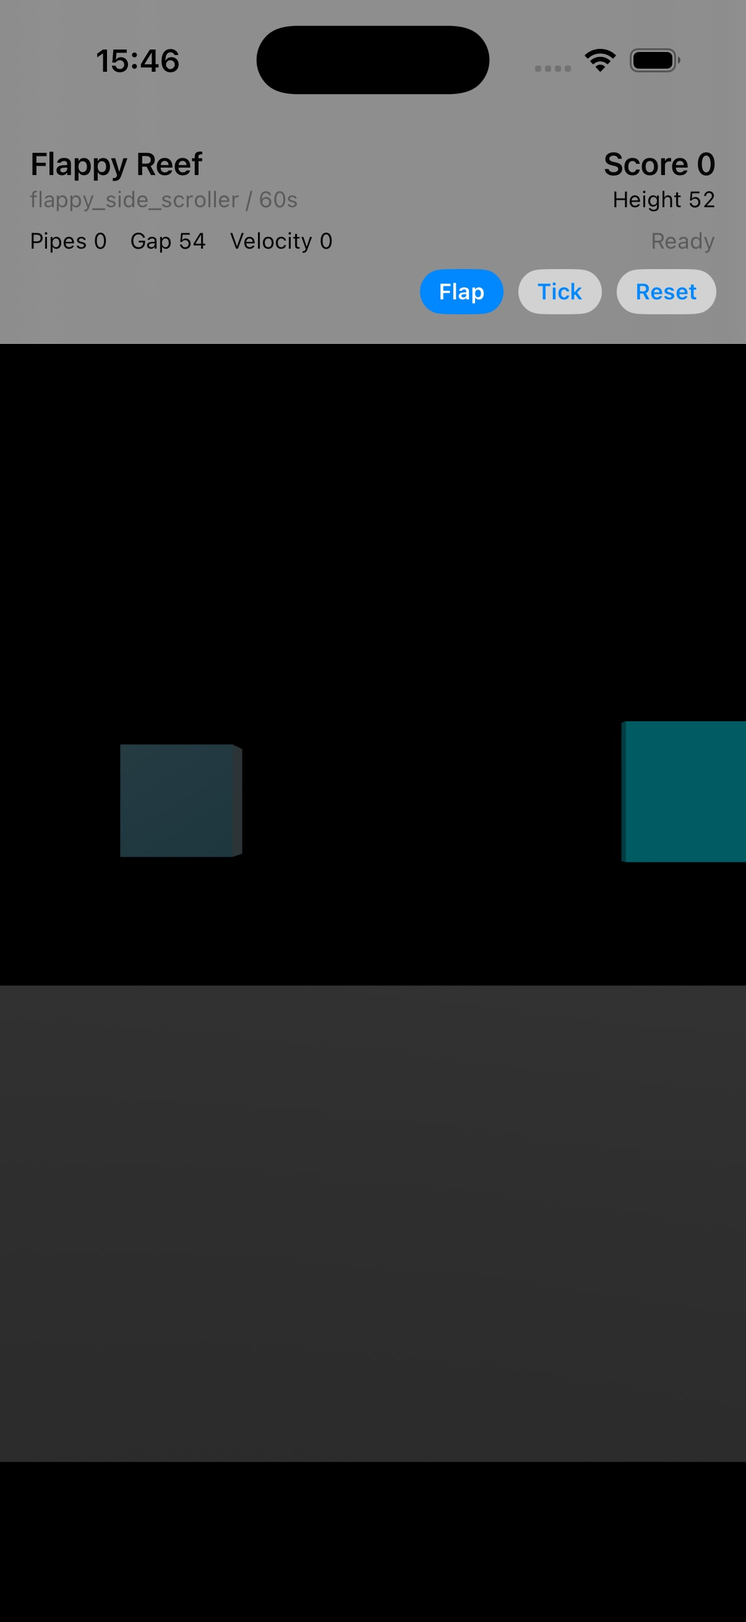
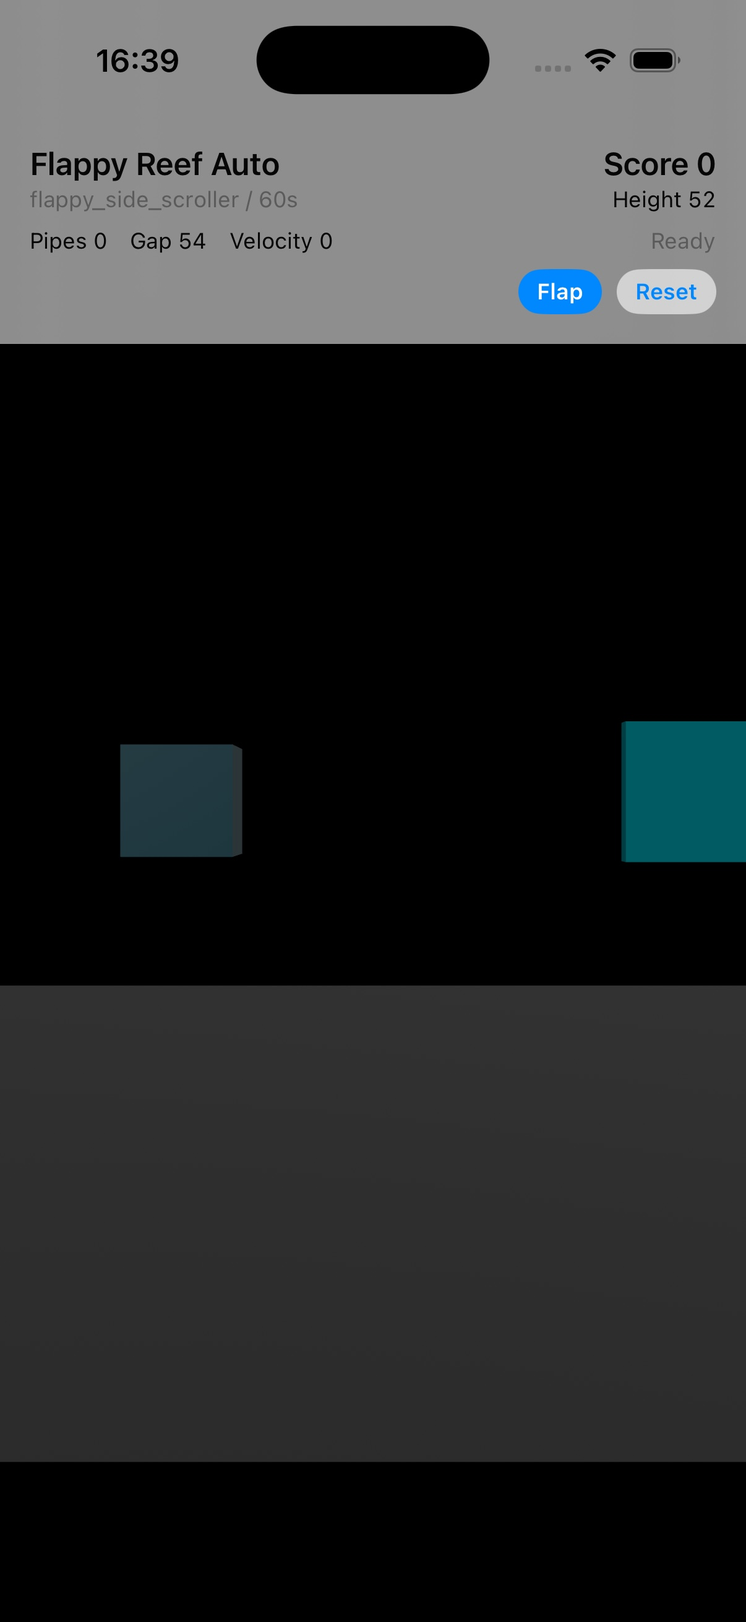
feat: make RKG flappy auto-running

Changed region(s): [[0.5522, 0.1545, 0.8284, 0.2162], [0.2761, 0.0927, 0.3682, 0.1236], [0.1841, 0.0309, 0.2454, 0.0618]]

diff --git a/Tests/test_rkg_init_game.py b/Tests/test_rkg_init_game.py
@@ -1068,14 +1068,18 @@ class RkgInitGameTests(unittest.TestCase):
             state = (source / "GameState.swift").read_text(encoding="utf-8")
             rules = (source / "GameRules.swift").read_text(encoding="utf-8")
             self.assertIn("@State private var state = GameRules.flappyScreenshotSession(", content)
+            self.assertIn("private let frameTimer = Timer.publish(every: GameRules.flappyFrameInterval", content)
+            self.assertIn("private var isAutoLoopActive: Bool", content)
             self.assertIn('Text("Height \\(Int(state.birdY * 100))")', content)
             self.assertIn('Text("Pipes \\(state.pipesPassed)")', content)
             self.assertIn('Text("Gap \\(Int(state.gapY * 100))")', content)
             self.assertIn('Text("Velocity \\(Int(state.birdVelocity * 100))")', content)
-            self.assertIn('Button("Tick")', content)
+            self.assertNotIn('Button("Tick")', content)
+            self.assertIn(".onReceive(frameTimer)", content)
             self.assertIn("state = GameRules.startFlappySession(sessionSeconds: state.sessionSeconds)", content)
             self.assertIn("state = GameRules.flapBird(state)", content)
             self.assertIn("state = GameRules.advanceFlappyFrame(state)", content)
+            self.assertNotIn("tickFlappy()", content)
             self.assertIn("TapGesture().onEnded", content)
             self.assertIn('static let primaryActionTitle = "Flap"', input_intent)
             self.assertIn('case nearGap = "near_gap"', screenshot_state)
@@ -1084,11 +1088,16 @@ class RkgInitGameTests(unittest.TestCase):
             self.assertIn("var obstacleX: Double = GameRules.flappyStartObstacleX", state)
             self.assertIn("var gapY: Double = GameRules.flappyStartGapY", state)
             self.assertIn("var pipesPassed: Int = 0", state)
+            self.assertIn("var flappyFramesElapsed: Int = 0", state)
             self.assertIn("var isCollision: Bool = false", state)
             self.assertIn("static let flappyGravity", rules)
+            self.assertIn("static let flappyFrameInterval = 0.18", rules)
+            self.assertIn("static func flappyObstacleSpeed(for pipesPassed: Int) -> Double", rules)
             self.assertIn("static func startFlappySession(sessionSeconds: Int) -> GameSessionState", rules)
             self.assertIn("static func flapBird(_ state: GameSessionState) -> GameSessionState", rules)
             self.assertIn("static func advanceFlappyFrame(_ state: GameSessionState) -> GameSessionState", rules)
+            self.assertIn("next.flappyFramesElapsed += 1", rules)
+            self.assertIn("next.elapsedSeconds = Int(Double(next.flappyFramesElapsed) * flappyFrameInterval)", rules)
             self.assertIn("static func flappyScreenshotSession(for screenshotState: ScreenshotState?", rules)
             self.assertIn('case "near_gap":', rules)
 

diff --git a/src/rkg/archetype_runtime.py b/src/rkg/archetype_runtime.py
@@ -53,6 +53,7 @@ def archetype_state_fields(archetype_id: str) -> list[str]:
             "var obstacleX: Double = GameRules.flappyStartObstacleX",
             "var gapY: Double = GameRules.flappyStartGapY",
             "var pipesPassed: Int = 0",
+            "var flappyFramesElapsed: Int = 0",
             "var isCollision: Bool = false",
         ]
     if archetype_id == "custom_realitykit":
@@ -389,13 +390,17 @@ def archetype_rule_members(archetype_id: str) -> list[str]:
             "static let flappyStartY = 0.52",
             "static let flappyStartObstacleX = 1.0",
             "static let flappyStartGapY = 0.54",
+            "static let flappyFrameInterval = 0.18",
             "static let flappyGravity = -0.040",
             "static let flappyImpulse = 0.180",
-            "static let flappyObstacleSpeed = 0.150",
+            "static let flappyObstacleBaseSpeed = 0.130",
             "static let flappyGapHalfHeight = 0.180",
             "static let flappyBirdX = 0.25",
             """static func clampedBirdY(_ value: Double) -> Double {
     min(max(value, 0.08), 0.92)
+}""",
+            """static func flappyObstacleSpeed(for pipesPassed: Int) -> Double {
+    min(flappyObstacleBaseSpeed + Double(max(0, pipesPassed)) * 0.012, 0.220)
 }""",
             """static func nextFlappyGap(after pipesPassed: Int) -> Double {
     let gaps = [0.36, 0.58, 0.44, 0.68, 0.50]
@@ -416,6 +421,7 @@ def archetype_rule_members(archetype_id: str) -> list[str]:
     state.obstacleX = flappyStartObstacleX
     state.gapY = flappyStartGapY
     state.pipesPassed = 0
+    state.flappyFramesElapsed = 0
     state.isCollision = false
     state.lastEvent = "ready"
     return state
@@ -434,10 +440,11 @@ def archetype_rule_members(archetype_id: str) -> list[str]:
     if next.phase != .playing {
         return startFlappySession(sessionSeconds: next.sessionSeconds)
     }
-    next.elapsedSeconds += 1
+    next.flappyFramesElapsed += 1
+    next.elapsedSeconds = Int(Double(next.flappyFramesElapsed) * flappyFrameInterval)
     next.birdVelocity += flappyGravity
     next.birdY = clampedBirdY(next.birdY + next.birdVelocity)
-    next.obstacleX -= flappyObstacleSpeed
+    next.obstacleX -= flappyObstacleSpeed(for: next.pipesPassed)
     if next.obstacleX < -0.16 {
         next.pipesPassed += 1
         next.score = next.pipesPassed * hitScore

diff --git a/src/rkg/content_views.py b/src/rkg/content_views.py
@@ -683,16 +683,23 @@ struct ContentView: View {{
 
 
 def _flappy_content_view_swift(title: str, subtitle: str, player_action: str) -> str:
-    return f"""import SwiftUI
+    return f"""import Combine
+import Foundation
+import SwiftUI
 
 struct ContentView: View {{
     @State private var state = GameRules.flappyScreenshotSession(
         for: ScreenshotState.requested,
         fallback: GameSessionState()
     )
+    private let frameTimer = Timer.publish(every: GameRules.flappyFrameInterval, on: .main, in: .common).autoconnect()
 
     private var isPlaying: Bool {{
         SessionControl.isPlaying(state)
+    }}
+
+    private var isAutoLoopActive: Bool {{
+        isPlaying && ScreenshotState.requested == nil
     }}
 
     var body: some View {{
@@ -739,11 +746,6 @@ struct ContentView: View {{
                         }}
                         .buttonStyle(.borderedProminent)
                         .controlSize(.small)
-                        Button("Tick") {{
-                            tickFlappy()
-                        }}
-                        .buttonStyle(.bordered)
-                        .controlSize(.small)
                         Button(InputIntent.resetTitle) {{
                             state = SessionControl.reset()
                         }}
@@ -767,20 +769,23 @@ struct ContentView: View {{
                     flapFlappy()
                 }}
             )
+            .onReceive(frameTimer) {{ _ in
+                advanceFlappyIfNeeded()
+            }}
         }}
     }}
 
     private func flapFlappy() {{
         if !isPlaying {{
             state = GameRules.startFlappySession(sessionSeconds: state.sessionSeconds)
+            state = GameRules.flapBird(state)
             return
         }}
         state = GameRules.flapBird(state)
     }}
 
-    private func tickFlappy() {{
-        if !isPlaying {{
-            state = GameRules.startFlappySession(sessionSeconds: state.sessionSeconds)
+    private func advanceFlappyIfNeeded() {{
+        if !isAutoLoopActive {{
             return
         }}
         state = GameRules.advanceFlappyFrame(state)

diff --git a/Tests/test_rkg_content_views.py b/Tests/test_rkg_content_views.py
@@ -87,17 +87,21 @@ class RkgContentViewTests(unittest.TestCase):
         self.assertIn("for: ScreenshotState.requested", content)
         self.assertIn("fallback: GameSessionState()", content)
         self.assertIn("SessionControl.isPlaying(state)", content)
+        self.assertIn("private let frameTimer = Timer.publish(every: GameRules.flappyFrameInterval", content)
+        self.assertIn("private var isAutoLoopActive: Bool", content)
         self.assertIn("GameView(state: state)", content)
         self.assertIn('Text("Height \\(Int(state.birdY * 100))")', content)
         self.assertIn('Text("Pipes \\(state.pipesPassed)")', content)
         self.assertIn('Text("Gap \\(Int(state.gapY * 100))")', content)
         self.assertIn('Text("Velocity \\(Int(state.birdVelocity * 100))")', content)
         self.assertIn("Button(InputIntent.primaryButtonTitle(isPlaying: isPlaying))", content)
-        self.assertIn('Button("Tick")', content)
+        self.assertNotIn('Button("Tick")', content)
         self.assertNotIn('Text("play the generated loop")', content)
+        self.assertIn(".onReceive(frameTimer)", content)
         self.assertIn("state = GameRules.startFlappySession(sessionSeconds: state.sessionSeconds)", content)
         self.assertIn("state = GameRules.flapBird(state)", content)
         self.assertIn("state = GameRules.advanceFlappyFrame(state)", content)
+        self.assertNotIn("tickFlappy()", content)
         self.assertIn("TapGesture().onEnded", content)
 
     def test_custom_realitykit_content_view_emits_game_shell_instead_of_dev_overlay(self) -> None:

diff --git a/Tests/test_rkg_archetype_runtime.py b/Tests/test_rkg_archetype_runtime.py
@@ -60,11 +60,18 @@ class RkgArchetypeRuntimeTests(unittest.TestCase):
         self.assertIn("var obstacleX: Double = GameRules.flappyStartObstacleX", fields)
         self.assertIn("var gapY: Double = GameRules.flappyStartGapY", fields)
         self.assertIn("var pipesPassed: Int = 0", fields)
+        self.assertIn("var flappyFramesElapsed: Int = 0", fields)
         self.assertIn("var isCollision: Bool = false", fields)
         self.assertIn("static let flappyGravity", rules)
+        self.assertIn("static let flappyFrameInterval = 0.18", rules)
+        self.assertIn("static let flappyObstacleBaseSpeed = 0.130", rules)
+        self.assertIn("static func flappyObstacleSpeed(for pipesPassed: Int) -> Double", rules)
         self.assertIn("static func startFlappySession(sessionSeconds: Int) -> GameSessionState", rules)
         self.assertIn("static func flapBird(_ state: GameSessionState) -> GameSessionState", rules)
         self.assertIn("static func advanceFlappyFrame(_ state: GameSessionState) -> GameSessionState", rules)
+        self.assertIn("next.flappyFramesElapsed += 1", rules)
+        self.assertIn("next.elapsedSeconds = Int(Double(next.flappyFramesElapsed) * flappyFrameInterval)", rules)
+        self.assertIn("next.obstacleX -= flappyObstacleSpeed(for: next.pipesPassed)", rules)
         self.assertIn("static func hasFlappyCollision(birdY: Double, obstacleX: Double, gapY: Double) -> Bool", rules)
         self.assertIn("static func flappyScreenshotSession(for screenshotState: ScreenshotState?", rules)
         self.assertIn('case "near_gap":', rules)

diff --git a/src/rkg/archetypes.py b/src/rkg/archetypes.py
@@ -133,9 +133,9 @@ ARCHETYPES: list[JsonDict] = [
         "screenshot_states": ["gameplay_start", "mid_flight", "near_gap", "collision", "results"],
         "screenshot_proofs": {
             "gameplay_start": "Tap Start; state.phase == .playing; bird, obstacle gate, and arena are visible.",
-            "mid_flight": "Tap Flap, then Tick; state.birdY changes and state.birdVelocity != 0.",
+            "mid_flight": "Tap Flap and let the auto loop advance; state.birdY changes and state.birdVelocity != 0.",
             "near_gap": "Seed or play until obstacle approaches the bird; state.obstacleX is near the player and state.birdY is inside the gap.",
-            "collision": "Tick outside the gap or hit the flight band; state.isCollision == true and result UI is visible.",
+            "collision": "Let the auto loop advance outside the gap or hit the flight band; state.isCollision == true and result UI is visible.",
             "results": "Clear a few gates or collide; state.phase == .result and score/result UI is visible.",
         },
         "scope_risk": "medium",

diff --git a/Tests/test_rkg_archetypes.py b/Tests/test_rkg_archetypes.py
@@ -72,6 +72,8 @@ class RkgArchetypeTests(unittest.TestCase):
             ["gameplay_start", "mid_flight", "near_gap", "collision", "results"],
         )
         self.assertIn("state.birdY", record["screenshot_proofs"]["mid_flight"])
+        self.assertIn("auto loop", record["screenshot_proofs"]["mid_flight"])
+        self.assertNotIn("Tick", record["screenshot_proofs"]["collision"])
         self.assertIn("state.isCollision == true", record["screenshot_proofs"]["collision"])
 
     def test_custom_realitykit_archetype_exposes_composable_surface(self) -> None:

diff --git a/Docs/rkg-architecture.md b/Docs/rkg-architecture.md
@@ -64,7 +64,7 @@ Initial registry ids:
 | `stack_puzzle` | Place pieces. | Spawn piece, stack/collapse rule, height/result score. |
 | `wave_defense_lite` | Survive waves. | Spawn wave, target priority, health/result state. |
 | `fighter_2_5d` | Fixed side-view duel. | Attack, dodge, health, combo, guard cue, knockout/result state. |
-| `flappy_side_scroller` | Fixed side-view flap/gap runner. | Tap flap, gravity, scrolling obstacle gap, collision/result state. |
+| `flappy_side_scroller` | Fixed side-view flap/gap runner. | Tap flap, auto-loop gravity, speed ramp, scrolling obstacle gap, collision/result state. |
 | `custom_realitykit` | Compose from camera, input, and systems. | Generic player/arena roles plus racing, weapon, enemy, cover, pickup, projectile, or obstacle proof roles. |
 
 ## Asset Role Taxonomy
@@ -181,7 +181,7 @@ Responsibilities:
 | `RuntimeSceneSnapshot.swift` | Writes runtime scene-role metadata during screenshot-state launches. |
 | `ResultView.swift` | Result summary UI with reset action. |
 
-Current `init-game` writes this module layout. The first implementation keeps gameplay simple, but the ownership boundaries are in place: `GameView` no longer loads assets directly, `GameSceneController` wires all declared asset roles into the scene, `SessionControl` owns shared playing/reset/result primitives plus generated result visibility, and generated result/fail transitions route through `markResult`. `FeedbackState` owns generated last-event display text, `InputIntent` owns generated primary/reset button labels, `ScreenshotState` owns the typed release screenshot state ids, launch argument/env parsing, and evidence paths, `RuntimeSceneSnapshot` owns runtime scene-role evidence export during screenshot launches, `CameraRig` owns the selected camera id plus a compile-safe transform contract, `InputController` owns selected input capabilities, `SystemFlags` owns selected gameplay-system booleans, `WorldRig` owns generated custom scene dressing and idle motion, `ResultView` owns the generated result summary/reset overlay, `AssetLoader` owns USDZ loading, and `FallbackFactory` owns role- and fallback-id-based procedural primitives. `target_shooter` has a playable SwiftUI overlay loop and RealityKit state binding for start, hit scoring, perfect-hit feedback, finish/result, reset, target movement, result overlay, and scoring. `stack_puzzle` has a playable SwiftUI overlay loop and RealityKit state binding for start, stable/unstable placement, collapse/result, reset, piece count, stable count, piece height/offset feedback, obstacle collapse feedback, result overlay, and scoring. `lane_dodger` has a minimal playable generated loop in SwiftUI and RealityKit state binding: start, drag lane change, dodge frame advance, player/obstacle lane movement, collision/result, reset, score, result overlay, and near-miss state. `wave_defense_lite` has a playable SwiftUI overlay loop and RealityKit state binding for start, fire, damage, wave progression, health/result, threat movement, low-health defender feedback, reset, result overlay, and scoring. `toss_physics` has a playable SwiftUI overlay loop and RealityKit state binding for start, power selection, throw resolution, projectile position, landing/result feedback, attempts, reset, result overlay, and scoring. `fighter_2_5d` has a playable generated side-view duel loop with attack, swipe/tap dodge, damage test input, health, combo, guard meter, knockout/result state, hit VFX role binding, guard cue role binding, compact mobile HUD controls, and launch-state screenshot seeding for `round_start`, `mid_combo`, `perfect_dodge`, and `knockout`. `flappy_side_scroller` has a playable generated side-view loop with tap-to-flap gravity, bird velocity/height state, scrolling obstacle X, deterministic gap Y, pass scoring, collision/result state, compact Flap/Tick/Reset controls, bird/obstacle/arena RealityKit binding, and launch-state screenshot seeding for `gameplay_start`, `mid_flight`, `near_gap`, `collision`, and `results`. `custom_realitykit` currently generates a composable skeleton with camera/input/system runtime core, fallback-id-driven placeholder meshes, full-screen game shell, `WorldRig` lighting/backdrop/arena/projectile feedback only when the projectile adapter needs it, `SceneEvents.Update` idle motion, asset briefs, store/QA docs, screenshot-state seeding, runtime scene-role snapshots, semantic screenshot contracts, and screenshot gates; its system adapters cover racing lane steering, lap/checkpoint state, collision/result proof, vehicle/track/obstacle/checkpoint scene binding, projectile charge/launch/travel/impact proof, FPS/shooter aim/fire/health/cover/enemy proof, collector pickup/timer/combo proof, and camera rig entity binding. Custom adapter state/rules/UI/scene strings live behind `CustomRealityKitRuntimeAdapter` registry entries in `src/rkg/custom_realitykit_runtime.py`, and `rkg list-adapters --json` exposes that registry as a machine-readable capability matrix so docs/tools do not need to infer support from prose.
+Current `init-game` writes this module layout. The first implementation keeps gameplay simple, but the ownership boundaries are in place: `GameView` no longer loads assets directly, `GameSceneController` wires all declared asset roles into the scene, `SessionControl` owns shared playing/reset/result primitives plus generated result visibility, and generated result/fail transitions route through `markResult`. `FeedbackState` owns generated last-event display text, `InputIntent` owns generated primary/reset button labels, `ScreenshotState` owns the typed release screenshot state ids, launch argument/env parsing, and evidence paths, `RuntimeSceneSnapshot` owns runtime scene-role evidence export during screenshot launches, `CameraRig` owns the selected camera id plus a compile-safe transform contract, `InputController` owns selected input capabilities, `SystemFlags` owns selected gameplay-system booleans, `WorldRig` owns generated custom scene dressing and idle motion, `ResultView` owns the generated result summary/reset overlay, `AssetLoader` owns USDZ loading, and `FallbackFactory` owns role- and fallback-id-based procedural primitives. `target_shooter` has a playable SwiftUI overlay loop and RealityKit state binding for start, hit scoring, perfect-hit feedback, finish/result, reset, target movement, result overlay, and scoring. `stack_puzzle` has a playable SwiftUI overlay loop and RealityKit state binding for start, stable/unstable placement, collapse/result, reset, piece count, stable count, piece height/offset feedback, obstacle collapse feedback, result overlay, and scoring. `lane_dodger` has a minimal playable generated loop in SwiftUI and RealityKit state binding: start, drag lane change, dodge frame advance, player/obstacle lane movement, collision/result, reset, score, result overlay, and near-miss state. `wave_defense_lite` has a playable SwiftUI overlay loop and RealityKit state binding for start, fire, damage, wave progression, health/result, threat movement, low-health defender feedback, reset, result overlay, and scoring. `toss_physics` has a playable SwiftUI overlay loop and RealityKit state binding for start, power selection, throw resolution, projectile position, landing/result feedback, attempts, reset, result overlay, and scoring. `fighter_2_5d` has a playable generated side-view duel loop with attack, swipe/tap dodge, damage test input, health, combo, guard meter, knockout/result state, hit VFX role binding, guard cue role binding, compact mobile HUD controls, and launch-state screenshot seeding for `round_start`, `mid_combo`, `perfect_dodge`, and `knockout`. `flappy_side_scroller` has a playable generated side-view loop with tap-to-flap gravity, SwiftUI timer auto-loop, frame-interval session timing, speed ramp, screenshot-mode freeze, bird velocity/height state, scrolling obstacle X, deterministic gap Y, pass scoring, collision/result state, compact Flap/Reset controls, bird/obstacle/arena RealityKit binding, and launch-state screenshot seeding for `gameplay_start`, `mid_flight`, `near_gap`, `collision`, and `results`. `custom_realitykit` currently generates a composable skeleton with camera/input/system runtime core, fallback-id-driven placeholder meshes, full-screen game shell, `WorldRig` lighting/backdrop/arena/projectile feedback only when the projectile adapter needs it, `SceneEvents.Update` idle motion, asset briefs, store/QA docs, screenshot-state seeding, runtime scene-role snapshots, semantic screenshot contracts, and screenshot gates; its system adapters cover racing lane steering, lap/checkpoint state, collision/result proof, vehicle/track/obstacle/checkpoint scene binding, projectile charge/launch/travel/impact proof, FPS/shooter aim/fire/health/cover/enemy proof, collector pickup/timer/combo proof, and camera rig entity binding. Custom adapter state/rules/UI/scene strings live behind `CustomRealityKitRuntimeAdapter` registry entries in `src/rkg/custom_realitykit_runtime.py`, and `rkg list-adapters --json` exposes that registry as a machine-readable capability matrix so docs/tools do not need to infer support from prose.
 
 Generated projects also write `Docs/assets/<asset_id>.md` for every declared role. These are not acceptance records; they are RKP handoff briefs for the later asset import loop.
 

diff --git a/Docs/ai-handoff.md b/Docs/ai-handoff.md
@@ -68,7 +68,7 @@ Do not expand RKG while doing product-focus cleanup unless a test or doc boundar
 | Roughness readability polish | Complete | Neutral curved witness patch, stronger roughness values, grazing comparison lights |
 | Metallic value comparison | Complete | Fourth `material_response_targets` panel; metallic remains a material value, not a texture map |
 
-RKG latest note: `rkg start-game` now scores an idea, chooses native fighter/flappy or custom RealityKit camera/input/systems from idea keywords, scaffolds the project, and returns the QA plan plus `asset_pipeline.tasks` in one command. Each asset pipeline task maps a generated asset brief to ordered RKP command arrays for `make-asset`, `build-asset`, `inspect-usdz --json`, and screenshot-gated `accept-asset`. `flappy_side_scroller` is now the native Flappy-like proof: `Build/rkg-flappy/FlappyReef` passes `verify-game`, `capture-screenshots`, and `verify-screenshots --json` for `gameplay_start`, `mid_flight`, `near_gap`, `collision`, and `results`; public evidence is `Docs/screenshots/rkg_flappy_*.jpg`. `rkg accept-first-asset` wraps the first gameplay-relevant task into one workflow: make/build/inspect, capture and verify screenshots, copy the selected state screenshot to `<asset_id>_imported.jpg`, accept, and run `release-check --assets`. It skips the make step when `Tools/blender/create_<asset_id>.py` already exists, so it can resume. The acceptance executor keeps plan output readable as `rkp`/`rkg` commands, but dispatches those entrypoints through workspace modules so local dogfood cannot accidentally use an older installed binary. The dogfood proof is `Build/rkg-start-game-dogfood/ShardVolleyStart`: generated build/capture/sidecars/scene snapshots pass, and one emitted task (`target_proxy`) has been built, inspected, accepted with `Docs/screenshots/target_proxy_imported.jpg`, and verified by `rkp release-check --assets`. The current custom game-skeleton proof is `Build/rkg-proper-skeleton-v7/ShardVolleyStart`: generated `custom_realitykit` apps include a full-screen game shell, start overlay, compact HUD, icon controls, `WorldRig.swift` with lighting/backdrop/arena lanes/projectile feedback only when the projectile adapter needs it, `SceneEvents.Update` idle motion, neutral fallback player proxy, result-only panel, and semantic visual screenshot contracts; `verify-game`, `capture-screenshots`, and `verify-screenshots --json` all pass for four screenshot states.
+RKG latest note: `rkg start-game` now scores an idea, chooses native fighter/flappy or custom RealityKit camera/input/systems from idea keywords, scaffolds the project, and returns the QA plan plus `asset_pipeline.tasks` in one command. Each asset pipeline task maps a generated asset brief to ordered RKP command arrays for `make-asset`, `build-asset`, `inspect-usdz --json`, and screenshot-gated `accept-asset`. `flappy_side_scroller` is now the native Flappy-like proof: `Build/rkg-flappy-auto/FlappyReefAuto` passes `verify-game`, `capture-screenshots`, and `verify-screenshots --json` for `gameplay_start`, `mid_flight`, `near_gap`, `collision`, and `results`; public evidence is `Docs/screenshots/rkg_flappy_*.jpg`. It has SwiftUI timer auto-loop, frame-interval session timing, screenshot-mode freeze, speed ramp, Flap/Reset controls, and deterministic screenshot-state seeds. `rkg accept-first-asset` wraps the first gameplay-relevant task into one workflow: make/build/inspect, capture and verify screenshots, copy the selected state screenshot to `<asset_id>_imported.jpg`, accept, and run `release-check --assets`. It skips the make step when `Tools/blender/create_<asset_id>.py` already exists, so it can resume. The acceptance executor keeps plan output readable as `rkp`/`rkg` commands, but dispatches those entrypoints through workspace modules so local dogfood cannot accidentally use an older installed binary. The dogfood proof is `Build/rkg-start-game-dogfood/ShardVolleyStart`: generated build/capture/sidecars/scene snapshots pass, and one emitted task (`target_proxy`) has been built, inspected, accepted with `Docs/screenshots/target_proxy_imported.jpg`, and verified by `rkp release-check --assets`. The current custom game-skeleton proof is `Build/rkg-proper-skeleton-v7/ShardVolleyStart`: generated `custom_realitykit` apps include a full-screen game shell, start overlay, compact HUD, icon controls, `WorldRig.swift` with lighting/backdrop/arena lanes/projectile feedback only when the projectile adapter needs it, `SceneEvents.Update` idle motion, neutral fallback player proxy, result-only panel, and semantic visual screenshot contracts; `verify-game`, `capture-screenshots`, and `verify-screenshots --json` all pass for four screenshot states.
 
 ## Planned Learning Modules
 
@@ -93,7 +93,7 @@ Recommended next path:
 
 1. Default back to the RKP product path and continue Module 4: Texture Maps and Material Response.
 2. Pick exactly one next material slice: metallic map need assessment or normal-map export behavior.
-3. If deliberately continuing RKG, use `Docs/rkg-shard-volley-dogfood.md` plus the Flappy evidence from Sprint 136 as the current gap list. Adapter-specific `qa-plan` proof text, blank/solid PNG/JPEG guardrails, malformed JPEG rejection, duplicate visual evidence detection, capture-contract sidecars, runtime scene-role snapshots, idea-to-project orchestration, generated asset-brief to RKP command planning, one emitted asset task dogfood, `accept-first-asset`, `accept-assets`, fresh capture XcodeGen generation, local CLI subprocess module dispatch, the readable `target_proxy` bullseye asset, full five-asset Shard Volley demo acceptance, first game-shell/world-rig presentation parity, first semantic visual QA, SceneEvents-based idle motion, and native Flappy-like scaffold proof are done. The next useful slice is text-overlap/mesh-visibility QA or richer Flappy/charge/launch VFX, sound, haptics, and level variety hooks.
+3. If deliberately continuing RKG, use `Docs/rkg-shard-volley-dogfood.md` plus the Flappy evidence from Sprint 137 as the current gap list. Adapter-specific `qa-plan` proof text, blank/solid PNG/JPEG guardrails, malformed JPEG rejection, duplicate visual evidence detection, capture-contract sidecars, runtime scene-role snapshots, idea-to-project orchestration, generated asset-brief to RKP command planning, one emitted asset task dogfood, `accept-first-asset`, `accept-assets`, fresh capture XcodeGen generation, local CLI subprocess module dispatch, the readable `target_proxy` bullseye asset, full five-asset Shard Volley demo acceptance, first game-shell/world-rig presentation parity, first semantic visual QA, SceneEvents-based idle motion, native Flappy-like scaffold proof, and Flappy auto-loop/speed-ramp proof are done. The next useful slice is text-overlap/mesh-visibility QA or richer Flappy/charge/launch VFX, sound, haptics, and level variety hooks.
 4. Keep screenshot evidence required before marking any visual asset imported.
 5. Use `Docs/blender-support.md` when answering Blender/fallback setup questions.
 6. Use `Docs/first-good-issues.md` when creating learner-friendly issue candidates.

diff --git a/Docs/game-factory.md b/Docs/game-factory.md
@@ -161,7 +161,7 @@ python3 Tools/rkg.py plan-game GameSpec.json
 python3 Tools/rkg.py qa-plan GameSpec.json
 ```
 
-`plan-game` is a dry run. It lists generated files, asset roles, and screenshot states without creating the output directory. Generated projects include `SessionControl.swift` for shared playing/reset/result primitives, `FeedbackState.swift` for last-event display text, `InputIntent.swift` for primary/reset button labels, `ScreenshotState.swift`, which turns `release.screenshots` into typed Swift cases and evidence paths for future capture automation, and `RuntimeSceneSnapshot.swift`, which writes runtime scene-role evidence during screenshot-state launches. The seed archetypes, including `target_shooter`, use the same shared state/result surface before adding deeper mechanics. Native `flappy_side_scroller` adds gravity/flap state, scrolling obstacle-gap state, collision/result proof, score, Flap/Tick controls, screenshot-state seeding, and RealityKit bird/obstacle/arena binding. `custom_realitykit` also emits `CameraRig.swift`, `InputController.swift`, `SystemFlags.swift`, and `WorldRig.swift`; the world rig owns lighting, backdrop, arena lanes, adapter-specific projectile feedback props, and a small `SceneEvents.Update` idle-motion hook. When `racing,lap_timer,collision` is selected it adds lane steering, lap/checkpoint state, collision/result proof, and RealityKit vehicle/track/obstacle/checkpoint binding. When `projectile,shooting,score` is selected it adds projectile charge/launch/hit state, target lane proof, controls, screenshot proof, and RealityKit player/weapon/projectile/target binding. When `weapon,hitscan,enemies,health,cover` is selected it adds aim/fire/health/cover/enemy state, controls, screenshot proof, and RealityKit player/weapon/enemy/cover binding. When `collect,score,timer` is selected it adds pickup/timer/combo state, lane controls, screenshot proof, and RealityKit player/pickup/timer binding. Those custom adapter generator strings are owned by `src/rkg/custom_realitykit_runtime.py`, not by the native archetype runtime/content/scaffold files; `rkg list-adapters --json` exposes the same registry as a capability matrix. Archetype rules should use `SessionControl.markResult` for result/fail transitions after setting their own gameplay-specific flags.
+`plan-game` is a dry run. It lists generated files, asset roles, and screenshot states without creating the output directory. Generated projects include `SessionControl.swift` for shared playing/reset/result primitives, `FeedbackState.swift` for last-event display text, `InputIntent.swift` for primary/reset button labels, `ScreenshotState.swift`, which turns `release.screenshots` into typed Swift cases and evidence paths for future capture automation, and `RuntimeSceneSnapshot.swift`, which writes runtime scene-role evidence during screenshot-state launches. The seed archetypes, including `target_shooter`, use the same shared state/result surface before adding deeper mechanics. Native `flappy_side_scroller` adds gravity/flap state, auto-loop frame advance, frame-interval session timing, speed ramp, scrolling obstacle-gap state, collision/result proof, score, Flap/Reset controls, screenshot-state seeding, and RealityKit bird/obstacle/arena binding. `custom_realitykit` also emits `CameraRig.swift`, `InputController.swift`, `SystemFlags.swift`, and `WorldRig.swift`; the world rig owns lighting, backdrop, arena lanes, adapter-specific projectile feedback props, and a small `SceneEvents.Update` idle-motion hook. When `racing,lap_timer,collision` is selected it adds lane steering, lap/checkpoint state, collision/result proof, and RealityKit vehicle/track/obstacle/checkpoint binding. When `projectile,shooting,score` is selected it adds projectile charge/launch/hit state, target lane proof, controls, screenshot proof, and RealityKit player/weapon/projectile/target binding. When `weapon,hitscan,enemies,health,cover` is selected it adds aim/fire/health/cover/enemy state, controls, screenshot proof, and RealityKit player/weapon/enemy/cover binding. When `collect,score,timer` is selected it adds pickup/timer/combo state, lane controls, screenshot proof, and RealityKit player/pickup/timer binding. Those custom adapter generator strings are owned by `src/rkg/custom_realitykit_runtime.py`, not by the native archetype runtime/content/scaffold files; `rkg list-adapters --json` exposes the same registry as a capability matrix. Archetype rules should use `SessionControl.markResult` for result/fail transitions after setting their own gameplay-specific flags.
 
 `qa-plan` is the dry-run screenshot capture plan. It sequences `release.screenshots` with the generated proof cue, visible roles, Swift screenshot state case, target evidence path, capture automation hint, and `semantic_visual_contract` thresholds. Use `--json` when another tool or future simulator automation needs to consume the plan. `fighter_2_5d`, `flappy_side_scroller`, and `custom_realitykit` generated apps can be launched directly into a screenshot state with `--rkg-screenshot-state <state>`. For `custom_realitykit`, the proof cue is selected from the active system adapter, so projectile, racing, shooter, and collector skeletons describe their own state values instead of generic archetype prose.
 

diff --git a/Docs/WORKLOG.md b/Docs/WORKLOG.md
@@ -12,6 +12,43 @@ Bu dosya projenin ortak çalışma defteri. Her yeni işe başlamadan önce bura
 
 ## Current Sprint
 
+### Sprint 137: RKG Flappy Auto Loop Polish
+
+**Durum:** Tamamlandı
+**Tarih:** 2026-05-13
+**Amaç:** Native Flappy archetype'ını manual `Tick` prototipinden gerçek zamanlı oynanabilir generated loop'a yaklaştırmak.
+
+**Yapılanlar:**
+
+- Generated Flappy `ContentView` artık `Timer.publish(every: GameRules.flappyFrameInterval...)` ile otomatik frame advance ediyor.
+- Screenshot-state launch sırasında auto-loop bilerek donuyor; capture kanıtları deterministik kalıyor.
+- Manual `Tick` butonu ve `tickFlappy()` helper'ı kaldırıldı; normal kontrol yüzeyi Flap/Reset olarak kaldı.
+- İlk Flap aksiyonu idle state'ten session başlatıp bird'e impulse veriyor.
+- Runtime'a `flappyFrameInterval`, `flappyObstacleBaseSpeed` ve `flappyObstacleSpeed(for:)` eklendi; obstacle hızı geçilen pipe sayısına göre kontrollü artıyor.
+- `flappyFramesElapsed` state alanı eklendi; session süresi auto-loop frame interval'ine göre hesaplanıyor.
+- Flappy proof metinleri `Tick` yerine auto-loop davranışını anlatacak şekilde güncellendi.
+- `Docs/screenshots/rkg_flappy_*.jpg` kanıtları auto-loop generated app'ten tekrar alındı.
+
+**Verification:**
+
+```text
+rtk ./.venv/bin/python -m unittest Tests.test_rkg_archetypes.RkgArchetypeTests.test_flappy_side_scroller_exposes_flight_roles_input_and_screenshot_proofs Tests.test_rkg_archetype_runtime.RkgArchetypeRuntimeTests.test_flappy_runtime_contract_is_exposed_outside_scaffold Tests.test_rkg_content_views.RkgContentViewTests.test_flappy_content_view_contract_is_outside_scaffold Tests.test_rkg_init_game.RkgInitGameTests.test_init_game_generates_flappy_state_rules_and_play_loop: first run failed as expected on missing auto-loop contract; then ok
+rtk ./.venv/bin/python -m unittest Tests.test_rkg_archetypes Tests.test_rkg_archetype_runtime Tests.test_rkg_content_views Tests.test_rkg_init_game Tests.test_rkg_scaffold_generators Tests.test_rkg_new_spec Tests.test_rkg_start_game: ok; 77 tests
+rtk ./.venv/bin/python -m unittest discover -s Tests: ok; 248 tests
+rtk ./.venv/bin/python -m ruff check src/rkg src/rkp Tests: ok
+git diff --check: ok
+rtk ./.venv/bin/python Tools/rkp.py release-check: ok
+rtk ./.venv/bin/python Tools/rkg.py new-spec flappy_side_scroller --title "Flappy Reef Auto" --output Build/rkg-flappy-auto/FlappySpec.json: ok
+rtk ./.venv/bin/python Tools/rkg.py init-game Build/rkg-flappy-auto/FlappySpec.json --output Build/rkg-flappy-auto/FlappyReefAuto --force: ok
+rtk ./.venv/bin/python Tools/rkg.py verify-game Build/rkg-flappy-auto/FlappyReefAuto: ok
+rtk ./.venv/bin/python Tools/rkg.py capture-screenshots Build/rkg-flappy-auto/FlappyReefAuto --device FF329D84-0179-49E2-AFC4-12D4935845FC --json: ok; 5 screenshots captured
+rtk ./.venv/bin/python Tools/rkg.py verify-screenshots Build/rkg-flappy-auto/FlappyReefAuto --json: ok; 5 checks
+```
+
+**Öğrenme notu:**
+
+Generated game'in "oynanabilir" sayılması için QA amaçlı step button yeterli değil. Auto-loop eklerken screenshot seeding'i dondurmak önemliydi; aksi halde capture bekleme süresi state'i değiştirip kanıtları nondeterministic yapardı.
+
 ### Sprint 136: RKG Native Flappy Side Scroller
 
 **Durum:** Tamamlandı

diff --git a/Docs/game-spec.md b/Docs/game-spec.md
@@ -212,7 +212,7 @@ release:
 
 ## Flappy Side Scroller Example
 
-`flappy_side_scroller` is the native Flappy-like archetype. It requires `player`, `obstacle`, and `arena` roles, generates tap-to-flap gravity state, scrolling obstacle/gap state, collision/result proof, and launch-state screenshot seeding for `gameplay_start`, `mid_flight`, `near_gap`, `collision`, and `results`.
+`flappy_side_scroller` is the native Flappy-like archetype. It requires `player`, `obstacle`, and `arena` roles, generates tap-to-flap gravity state, timer-driven obstacle advance, frame-interval session timing, speed ramp, scrolling obstacle/gap state, collision/result proof, and launch-state screenshot seeding for `gameplay_start`, `mid_flight`, `near_gap`, `collision`, and `results`.
 
 ```yaml
 game:
